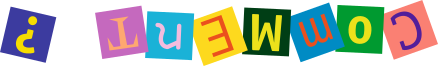
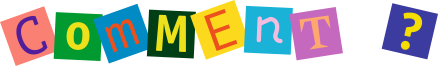
Edit welcome page

diff --git a/resources/views/welcome.blade.php b/resources/views/welcome.blade.php
@@ -934,23 +934,11 @@
         </div>
         <div class="row">
             <div class="entry-content col-md-6">
-                <h1 class="mt-3 mb-3"> <img src="{{ URL::to('/') }}/images/landingPage/pourquoi_150.png"
+                <h1 class="mt-3 mb-3"> <img src="{{ URL::to('/') }}/images/landingPage/comment_150.png"
                         class="img-fluid" alt="Pourquoi ?"></h1>
-                <p>Le <b>Coffre à Histoires</b> favorise la mise en situation permettant à l'enfant d'éxercer et
-                    d'élargir les 5 capacités transversales suivantes:</p>
-                <ul>
-                    <li>la collaboration
-                    <li>
-                    <li>la communication
-                    <li>
-                    <li>les stratégies d'apprentissage
-                    <li>
-                    <li>la pensée créatrice
-                    <li>
-                    <li>la démarche réflexive
-                    <li>
-                </ul>
-                <p>Il peut aider à la définition du projet d'intégration.</p>
+                <p>Une fois par semaine, une codeuse-interprète en LPC et un unseignant en LSF sont attendus par les enfants.<br/>
+            Le moment ritualisé par la boîte à musique annonce le début de l'histoire.<br/>
+        Lue à haute voix, elle est accompagnée de LPC et/ou de LSF, afin d'être bien comprise par tous.</p>
             </div>
             <div class="entry-content col-md-6">
                 <h1 class="mt-3 mb-3"> <img src="{{ URL::to('/') }}/images/landingPage/ou_150.png" class="img-fluid"
